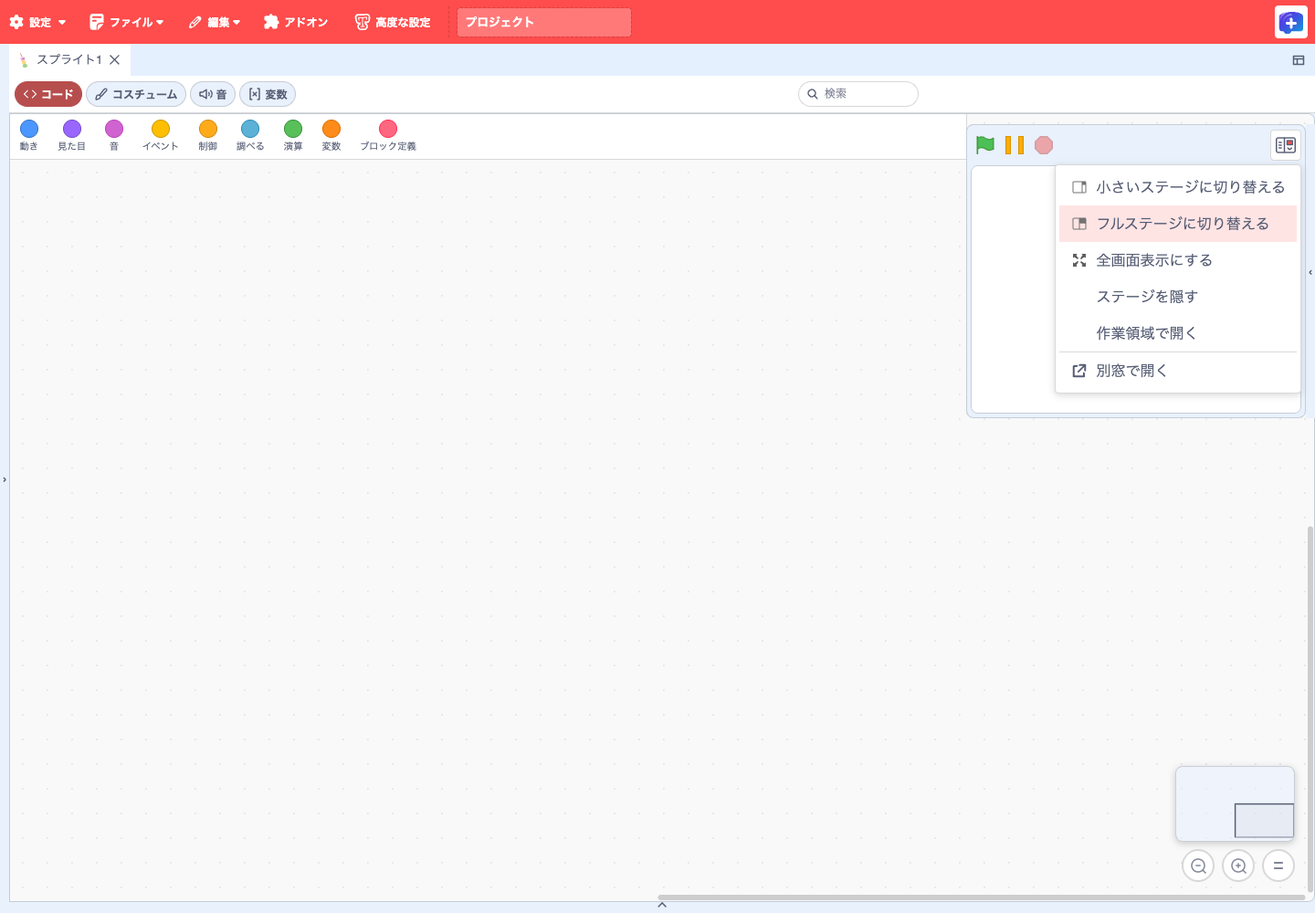
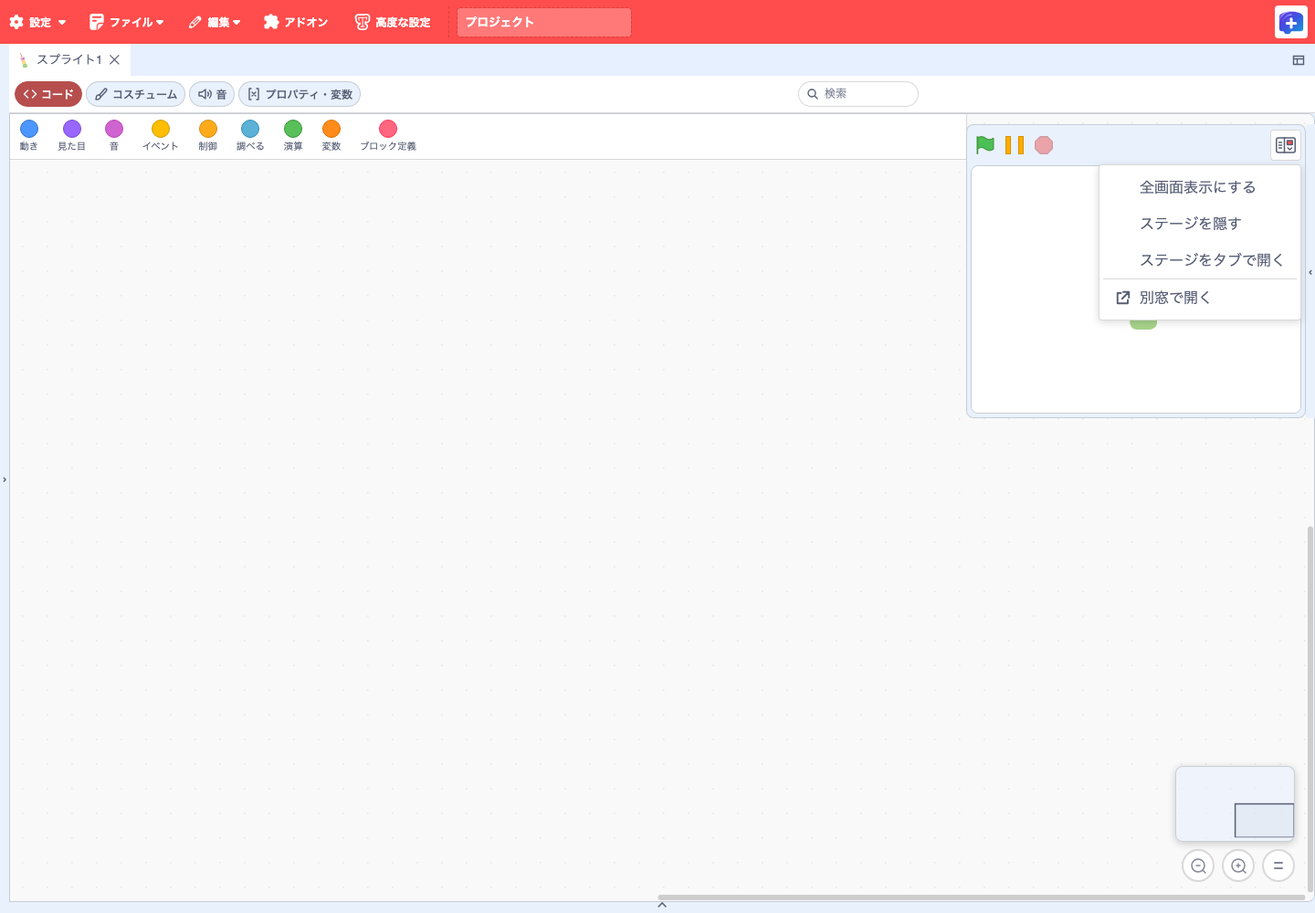
docs(features): document SB3 compatibility and current stage controls

Changed region(s): [[0.7812, 0.186, 1.0, 0.434], [0.1875, 0.093, 0.2812, 0.124]]

diff --git a/docs/features/index.html b/docs/features/index.html
@@ -13,6 +13,8 @@
 <h1>TurboWarp Plusで作品をつくる</h1>
 <p class="lead">作品を開いたら、スプライト、コード、ステージを作業しやすい位置に並べます。編集した内容を確かめ、使い回したい素材を取り込み、SB3や単一HTMLにまとめます。</p>
 <p><a href="../editor.html?lang=ja">日本語でエディターを開く</a> · <a href="images/capture.json">掲載画面の撮影条件</a></p>
+<p>Scratch 3と標準TurboWarpで保存したSB3は、どちらもPlus Editorで開けます。Plus固有の機能には、対応する拡張や専用データなどが必要なものがあります。</p>
+<p><a href="sb3-compatibility.md">Scratch・TurboWarpのSB3互換性と機能一覧（Markdown）</a></p>
 <p class="guide-note">画面画像を選ぶと元の大きさで開けます。「概念図」は、画面や操作の関係を簡略化して示しています。</p>
 <div id="comparison">
 <h2>標準のTurboWarpに加わる機能</h2>
@@ -171,8 +173,8 @@
 
 <h2>7. ステージを展開して作品を動かす</h2>
 
-<p>右端の「ステージを展開」からステージを表示します。緑旗・一時停止・停止で動作を確認し、「ステージの表示」で小さい表示、フルステージ、全画面、非表示を切り替えます。表示を隠しても作品は実行を続けます。</p>
-<figure><a href="images/stage-menu.png"><img src="images/stage-menu.png" width="1440" height="1000" alt="右端から開いたステージと、サイズ・全画面・作業領域・別窓を選べる表示メニュー。" loading="lazy"></a><figcaption>「ステージの表示」に、サイズの変更と表示先の切り替えがまとまっています。</figcaption></figure>
+<p>右端の「ステージを展開」からステージを表示します。緑旗・一時停止・停止で動作を確認し、「ステージの表示」から全画面表示や非表示を選べます。表示を隠しても作品は実行を続けます。</p>
+<figure><a href="images/stage-menu.png"><img src="images/stage-menu.png" width="1440" height="1000" alt="右端から開いたステージと、全画面表示、非表示、タブ、別窓を選べる表示メニュー。" loading="lazy"></a><figcaption>右端のステージで「ステージの表示」を開いたところ。</figcaption></figure>
 <p><a href="https://github.com/kubohiroya/turbowarp-plus-editor/pull/257">右端のステージと別窓</a></p>
 
 </section>
@@ -227,9 +229,10 @@
 
 <h2>12. コスチュームや音の選択を保って編集する</h2>
 
-<p>「編集パネルのレイアウト」で「パネルを横に分割」を選び、同じスプライトの「コスチューム」と「音」を左右に開きます。音を選ぶと波形が表示され、その下の再生ボタンで試聴できます。音が入っていないスプライトには「音」タブで追加します。ペインごとに選んだ素材が保持されるので、元のペインをクリックするか、フォーカスを当ててEnterを押せば、その素材の編集を再開できます。</p>
+<p>「編集パネルのレイアウト」から「パネルを横に分割」を選び、同じスプライトの「コスチューム」と「音」を左右に開きます。「音」で素材を選ぶと波形が表示され、その下の再生ボタンで試聴できます。音の一覧が空の場合は「音」タブから追加します。</p>
+<p>別のペインに移っても、開いていたタブと選んだ素材はペインごとに保持されます。編集を再開するには、元のペインをクリックするか、ペインにフォーカスを当ててEnterを押します。</p>
 <figure><a href="images/local-media-panes.png"><img src="images/local-media-panes.png" width="1440" height="575" alt="ローカル統合版のPlus配置。左ペインにコスチュームの全体像、右ペインに音の波形と再生ボタンが表示され、両方の検索欄が各ペインの右端にある。" loading="lazy"></a><figcaption>ローカル統合版。左にコスチュームのプレビュー、右に確認用の音の波形と再生ボタン。</figcaption></figure>
-<p><span class="badge planned">開発中</span> 図のローカル統合版では、編集していない側のコスチュームプレビューの高さに上限を設け、検索欄を各ペインの右端に揃えています。公開版でも素材の選択保持と音の再生を利用できます。公開版ではペインが縦長だとコスチュームのプレビューが大きくなり、音のペインでは検索欄の右に別の操作ボタンが表示されます。</p>
+<p><span class="badge planned">開発中</span> ローカル統合版では、操作していないペインのコスチュームプレビューが大きくなりすぎないよう、高さに上限があります。「検索」は各ペインの右端に揃います。公開版でも素材の選択は保持され、音を再生できます。縦長のペインではプレビューが大きく表示され、「音」のペインでは検索欄の右に操作ボタンが並びます。</p>
 <p><a href="https://github.com/kubohiroya/turbowarp-plus-editor/pull/253">素材の選択と編集状態</a></p>
 
 </section>
@@ -238,9 +241,9 @@
 
 <h2>13. 変数を見ながらコードを編集する</h2>
 
-<p>ペインを横に分割し、一方で変数、もう一方でコードを開くと、処理を見ながら値を調整できます。値の欄に入力してEnterを押すと確定し、同じ変数を表示している別のペインにも反映されます。</p>
+<p>ペインを横に分割し、片方に変数、もう片方にコードを表示します。値の欄を編集し、Enterで確定すると、同じ変数を表示しているほかのペインにも新しい値が反映されます。</p>
 <figure><a href="images/local-variable-pane.png"><img src="images/local-variable-pane.png" width="1440" height="405" alt="ローカル統合版の左ペインに、すべてのスプライト用のスコアと、このスプライトのみの速さが別の見出しで表示されている。速さの値は8。右ペインに速さを使って移動するコードがある。" loading="lazy"></a><figcaption>ローカル統合版。「変数」タブで「速さ」を8に確定したところ。隣のコードでは「速さ」を移動量に使っています。</figcaption></figure>
-<p><span class="badge planned">開発中</span> 図のローカル統合版では「変数」タブを開きます。「すべてのスプライト用」と「このスプライトのみ」に分かれ、名前列を狭くして値の欄を広く取っています。公開版では「プロパティ・変数」タブを開き、各変数に付く「作品」「スプライト」の表示で範囲を確認します。</p>
+<p><span class="badge planned">開発中</span> ローカル統合版の「変数」タブでは、「すべてのスプライト用」と「このスプライトのみ」の見出しで変数がまとまっています。値の列は名前の列より広く、入力欄からフォーカスを外しても確定できます。確定前にEscを押すと入力を取り消せます。公開版では「プロパティ・変数」タブを開き、変数名に添えられた「作品」または「スプライト」の表示で範囲を確認します。</p>
 <p><a href="https://github.com/kubohiroya/turbowarp-plus-editor/pull/253">変数タブ</a></p>
 
 </section>
@@ -249,11 +252,12 @@
 
 <h2>14. ステージを作業領域や別窓に移す</h2>
 
-<p>右端からステージを展開し、「ステージの表示」→「作業領域で開く」で、コードの隣にステージタブを開けます。ステージ上の「ステージの表示」から「小さいステージに切り替える」「別窓で開く」「作業領域から戻す」を選べます。元の位置へ戻すには、ステージタブを閉じる方法もあります。</p>
+<p>右端からステージを展開し、「ステージの表示」→「ステージをタブで開く」を選ぶと、コードの隣にステージタブを開けます。同じメニューから「別窓で開く」も選べます。右端に戻すには「作業領域から戻す」を選ぶか、ステージタブを閉じます。</p>
 <div class="flow" role="img" aria-label="右端のステージを作業領域のタブまたはブラウザー別窓に移し、右端に戻す。"><div>右端のステージ</div><span>↔</span><div>作業領域のタブ<br><small>またはブラウザーの別窓</small></div></div>
-<figure><a href="images/local-stage-workspace.png"><img src="images/local-stage-workspace.png" width="1440" height="1000" alt="ローカル統合版で左にコード、右にペインの幅に合わせたステージを表示。ステージの表示メニューに小さいステージへの切り替え、作業領域から戻す、別窓で開くが並ぶ。" loading="lazy"></a><figcaption>ローカル統合版。作業領域に移したステージで「ステージの表示」を開いたところ。</figcaption></figure>
-<p><span class="badge planned">開発中</span> ローカル統合版は縦横比を保ったまま、ペインに収まる大きさまでステージを広げます。小さいステージも選べます。ステージ側の表示操作は「ステージの表示」にまとまっています。公開版では広いペインでも通常表示の幅が480pxにとどまり、ステージのタブ列にも「編集パネルのレイアウト」が表示されます。</p>
-<p><a href="https://github.com/kubohiroya/turbowarp-plus-editor/pull/258">作業領域へのステージ移動</a> · <a href="https://github.com/kubohiroya/turbowarp-plus-editor/pull/257">別窓とドック復帰</a></p>
+<figure><a href="images/stage-workspace-current.png"><img src="images/stage-workspace-current.png" width="1440" height="1000" alt="左にコード、右にステージタブを表示。ステージの表示メニューから右端に戻す操作や別窓へ移す操作を選べる。" loading="lazy"></a><figcaption>公開Web版。作業領域に移したステージで「ステージの表示」を開いたところ。</figcaption></figure>
+<p><span class="badge planned">開発中</span> ペインの広さに合わせてステージを拡大・縮小する動作は、ローカル統合版で確認しています。掲載した公開版の通常表示ではステージの幅は480pxです。</p>
+<figure><a href="images/local-stage-workspace.png"><img src="images/local-stage-workspace.png" width="1440" height="1000" alt="ローカル統合版で左にコード、右にペインの幅に合わせたステージを表示。" loading="lazy"></a><figcaption>ローカル統合版の比較画像。幅715pxのペインにステージを幅703pxで表示。メニューは撮影時点の開発版です。</figcaption></figure>
+<p><a href="https://github.com/kubohiroya/turbowarp-plus-editor/pull/277">ステージの表示メニュー</a> · <a href="https://github.com/kubohiroya/turbowarp-plus-editor/pull/257">別窓とドック復帰</a></p>
 
 </section>
 
@@ -421,10 +425,10 @@
 
 <h2>27. スクリプトとステージを別作品へ転送する</h2>
 
-<p>移したいスクリプトのブロックを右クリックし、「スクリプトを書き出し」か「コピー」を選びます。転送先のコード領域の空白を右クリックし、「スクリプトを読み込み」か「貼り付け」を選びます。転送は<a href="../editor.html?lang=ja">通常の起動</a>で利用でき、Ctrl/Cmd+C・Vも使えます。</p>
+<p>移したいスクリプトのブロックを右クリックします。「スクリプトを書き出し」と「コピー」は、右クリックしたブロックを含む、つながった一組のブロック全体に適用されます。転送先ではコード領域の空白を右クリックし、ファイルなら「スクリプトを読み込み」、コピーした内容なら「貼り付け」を選びます。コピーと貼り付けにはCtrl／Cmd+C・Vも使えます。</p>
 <figure class="guide-detail"><a href="images/local-script-transfer.png"><img src="images/local-script-transfer.png" width="690" height="559" alt="ローカル統合版のPlus配置で、ブロックを右クリックしたところ。スクリプトを書き出し、コピー、複製、削除などの項目の左に操作アイコンが並ぶ。" loading="lazy"></a><figcaption>ローカル統合版のブロックの右クリックメニュー。書き出しは下向き矢印、削除はゴミ箱のアイコンで見分けられます。</figcaption></figure>
-<p><span class="badge planned">開発中</span> ローカル統合版では通常の起動でアイコンが表示されます。公開版で同じアイコンを表示するには、EditorのURLに <code>twPlusContextMenuIcons=1</code> を指定します。これはアイコン表示の設定です。</p>
-<ul><li><strong>.blocks3</strong>：スクリプトと必要なブロック定義・変数・リスト・メッセージ・拡張参照を移します。OSクリップボードへの許可がなくても、同じサイトのウィンドウ間でコピー・貼り付けできます。</li><li><strong>.stage3</strong>：Plus配置では背景タイル、Scratch配置ではステージの右クリックから書き出せます。Scratch配置では背景の「選ぶ」メニューから「ステージを読み込み（追加）」を選びます。背景・音・スクリプトを既存のステージへ追加します。</li><li>同名の変数等はスコープ・種類が合う既存データを使い、読み込み先の値を保持します。名前が競合する定義やアセットは必要に応じて改名します。式で生成する背景・音の名前や番号までは自動変換しません。</li><li>転送元の拡張の承認は引き継ぎません。別サイトへのクリップボード転送には対応ブラウザーと読取許可が必要です。同じサイト内の最後のコピーはlocalStorageにも残ります。</li></ul>
+<p><span class="badge planned">開発中</span> ローカル統合版は通常の起動でアイコンを表示します。公開版でアイコンを表示するには、URLに <code>twPlusContextMenuIcons=1</code> を指定します。転送操作はどちらの版でも<a href="../editor.html?lang=ja">通常の起動</a>で使えます。</p>
+<ul><li><strong>.blocks3</strong> にはスクリプトと、それが使うブロック定義・変数・リスト・メッセージ・拡張の情報が含まれます。同じオリジンで開いたウィンドウ間では、OSのクリップボードへのアクセスを許可していなくてもコピーと貼り付けができます。別のオリジン間では、対応ブラウザーとクリップボードの読み取り許可が必要です。</li><li><strong>.stage3</strong> は、Plus配置なら背景タイル、Scratch配置ならステージを右クリックして書き出します。Scratch配置で取り込むには、背景の「選ぶ」メニューで「ステージを読み込み（追加）」を選びます。背景・音・スクリプトが現在のステージに追加されます。</li><li>変数やリストの名前と範囲・種類が一致する場合は、読み込み先の項目とその値を使います。名前が衝突するブロック定義や素材は必要に応じて改名します。計算で決まる背景・音の名前や番号は自動変換の対象外です。</li><li>拡張を実行できるかどうかは、転送先の設定や承認で決まります。</li></ul>
 <p><a href="https://github.com/kubohiroya/turbowarp-plus-editor/blob/main/docs/script-stage-transfer.md">転送機能の仕様</a></p>
 
 </section>
@@ -433,7 +437,8 @@
 
 <h2>28. バンドル素材を背景・コスチューム・音に追加する</h2>
 
-<p>対応するバンドル素材を含む作品で、「ファイル」→「バンドル素材を作品に追加…」を開きます。素材、追加する種類、追加先を選び、「作品に追加」を押します。たとえばバンドル内の画像をステージの背景として再利用できます。元の素材もバンドルに保持されます。</p>
+<p>バンドル素材は、紙芝居などの拡張が使うために、通常の背景・コスチューム・音とは別枠で作品に保存した画像・音声ファイルです。たとえば紙芝居の場面用画像を、通常のステージ背景として追加できます。元の画像は紙芝居にも残ります。</p>
+<p>素材が入っている作品で、「ファイル」→「バンドル素材を作品に追加…」を開きます。素材、追加する種類、追加先を選び、「作品に追加」を押します。</p>
 <div class="table-scroll" role="region" aria-label="素材の種類に応じた追加先" tabindex="0">
 <table><caption>素材の種類に応じた追加先</caption><thead><tr><th scope="col">素材</th><th scope="col">追加する種類</th><th scope="col">追加先</th></tr></thead><tbody>
 <tr><th scope="row">画像</th><td>コスチューム</td><td>選んだスプライト</td></tr>
@@ -499,7 +504,7 @@
 
 <h2>32. ソースデータと素材をどの形式で保存するか選ぶ</h2>
 
-<p>「ファイル」→「作品データの形式…」で、対応するソースデータやアセットを項目ごとに設定できます。HTTPSから毎回取得、HTTPSから取得してキャッシュ可、SB3内のファイル、作品JSON内のデータから選びます。外部URLの内容は現在のデータと一致する必要があります。</p>
+<p>「ファイル」→「作品データの形式…」では、Scratch 3や標準TurboWarpのSB3に入っている背景・コスチューム・音の格納方式を選べます。対応する拡張が提供するYAMLなどのソースデータも、作品に含まれていれば設定できます。外部URLの内容は現在のデータと一致する必要があります。</p>
 <div class="table-scroll" role="region" aria-label="ソースデータと素材の保存方法" tabindex="0">
 <table><caption>ソースデータと素材の保存方法</caption><thead><tr><th scope="col">画面で選ぶ形式</th><th scope="col">使い分け</th></tr></thead><tbody>
 <tr><th scope="row">HTTPS から毎回取得</th><td>開くたびに配信元から取得する</td></tr>
@@ -515,7 +520,8 @@
 
 <h2>33. 作品を単一HTMLにまとめて配布する</h2>
 
-<p>標準TurboWarpにもPackagerがあります。ここでの追加点は、Plus形式の拡張とその実行条件を引き継ぐ出力です。Plus作品で「ファイル」→「プロジェクトをパッケージ化する」を選ぶと、ローカルの出力画面へ進みます。</p>
+<p>通常のScratch 3・TurboWarpのSB3は、「ファイル」→「プロジェクトをパッケージ化する」から<a href="https://packager.turbowarp.org/">標準のTurboWarp Packager</a>を開き、単一HTMLにできます。Plus形式の拡張の保存情報を持つ作品では、同じ操作でPlus専用の出力画面が開きます。</p>
+<p>Plus専用の出力では、次の手順で拡張コードと実行条件を引き継ぎます。</p>
 <ol><li>作品に外部API・モデルなどの依存がないか確認します。</li><li>確認してHTMLを生成します。Remoteの拡張コードも取得・検証して同梱し、サンドボックスの指定を保持します。</li><li>生成したHTMLを開いて動作を確かめます。カタログ掲載拡張は生成時に埋め込んだハッシュと照合し、カタログ外の拡張はHTMLを開くたびに確認します。</li></ol>
 <div class="flow" role="img" aria-label="Plus作品から拡張コードを取得して検証し、コードと作品を単一HTMLに同梱。受取人が開く際にも実行条件を確認する。"><div>Plus作品</div><span>→</span><div>コード取得・検証</div><span>→</span><div>単一HTMLへ同梱</div><span>→</span><div>開く人が実行<br><small>必要な拡張を確認</small></div></div>
 <p>外部依存がない作品はオフラインで動作します。外部API・画像・モデル等の資産を自動的に収集する機能ではありません。詳細は<a href="https://github.com/kubohiroya/turbowarp-plus-editor/blob/main/docs/extension-loader-integration.md">ローダーとHTML出力の仕様</a>を参照してください。</p>

diff --git a/docs/features/sb3-compatibility.md b/docs/features/sb3-compatibility.md
@@ -1,0 +1,116 @@
+# TurboWarp-Plus-EditorのSB3互換性と機能一覧
+
+**Scratch 3で保存した `.sb3` も、標準TurboWarpで保存した `.sb3` も、TurboWarp-Plus-Editorで開けます。** どちらも「ファイル」→「コンピューターから読み込む」を使います。Scratch標準ブロックや、Editorが備えるTurboWarp固有ブロックを編集・実行できます。カスタム拡張を含む作品では、対応する拡張を取得できることと、必要な実行許可を得られることが条件です。 [TurboWarpの読み込み手順](https://docs.turbowarp.org/scratch-accounts) · [TurboWarp固有ブロック](https://docs.turbowarp.org/blocks) · [カスタム拡張](https://docs.turbowarp.org/development/extensions/introduction)
+
+判定は、**通常のScratch 3または標準TurboWarpのSB3を、Plus EditorのWeb版で通常どおり開いた直後**を基準にします。作品にはPlus対応拡張や専用データが含まれず、エディターは既定設定で起動するものとします。「使える」は通常の作品データで利用できる機能、「使えない」はその状態では利用できない機能、「対象外」はエディターの外で行う操作です。追加の拡張・データ・起動設定や、開発版で使える範囲は右端に示します。
+
+章番号は2026年11月6日付のローカル改訂版「TurboWarp Plusで作品をつくる」（`cce59fb`）に対応します。公開Web版と操作が異なる箇所、試験機能、開発中の機能は表に記載しています。 [機能ガイドの改訂 Issue #181](https://github.com/kubohiroya/turbowarp-plus-editor/issues/181)
+
+## 作品を用意する
+
+| 機能紹介の章 | Scratch 3のSB3 | TurboWarpのSB3 | 利用条件と範囲 |
+| --- | --- | --- | --- |
+| 1. sb3-toolchainで作品と拡張を管理する | 対象外 | 対象外 | 両形式を、Node.jsのコマンドラインツール `sb3-toolchain` で展開・検証し、再生成できる。機能ごとの条件は下の第1章の内訳を参照。 |
+| 2. 作品を新しく作る・SB3を開く | 使える | 使える | 「ファイル」→「コンピューターから読み込む」。カスタム拡張付きは取得・実行条件を満たす必要がある。 |
+| 3. 作品に拡張を追加し、実行条件を確認する | 使える | 使える | 作品を開いた状態で、Plusカタログから拡張を追加できる。読み込み時の実行確認は対象のカスタム拡張を含む作品で表示される。必要な許可を得られない場合は読み込みが中断されることがある。 |
+| 4. 作品が開けないときに診断を読む | 使える | 使える | 作品の読み込み結果を確認できる。拡張の取得元・実行許可・検証の詳細は、ローダーが記録した場合に表示される。 |
+
+[sb3-toolchain](https://github.com/kubohiroya/sb3-toolchain/) · [作品情報と診断](https://github.com/kubohiroya/turbowarp-plus-editor/blob/main/docs/project-tools.md)
+
+### 第1章の内訳
+
+`sb3-toolchain` はNode.jsのコマンドラインツールです。手元のSB3を展開して管理し、配布用のSB3を生成するときに使います。
+
+| sb3-toolchainの機能 | Scratch 3のSB3 | TurboWarpのSB3 | 利用条件と範囲 |
+| --- | --- | --- | --- |
+| SB3の展開 | できる | できる | `import` で作品データと素材を展開。対応する埋め込み拡張も個別のファイルに取り出せる。 |
+| Gitで差分を確認 | できる | できる | 展開した `project.source.json` や素材、拡張コードをGitで管理する。 |
+| 展開ソースの検証 | できる | できる | `check` で素材参照やMD5などを確認。埋め込み拡張があれば対応関係も検証する。 |
+| SB3の再生成 | できる | できる | `build` で再生成する。同じ展開ソースと設定から同じバイト列のSB3を生成できる。 |
+| 素材の追加・ブロック配置の整理 | できる | できる | ビルド設定でスプライト・背景・コスチューム・音を追加できる。スクリプトの配置整理は任意。 |
+| 埋め込み拡張の取得元・版・ハッシュの管理 | 対象なし | 対応する埋め込み拡張があれば可 | GitHubのコミットやインストール済みnpmパッケージの版を固定し、SHA-256を照合できる。 |
+| 拡張更新時のAPI互換性の確認 | 対象なし | 対応マニフェストがあれば可 | 更新前後のAPIマニフェストを比較し、ブロックや引数などの変更を検査できる。 |
+| 拡張のバンドルと解除 | 対象なし | 対応する埋め込み拡張があれば可 | 複数の拡張を生成SB3で一つの実行許可単位にまとめられる。展開ソースでは個別に保持し、生成SB3単体から解除するには復元カプセルが必要。 |
+
+実行許可は、生成したSB3を開くときにPlus Editorが扱います。カタログで信頼条件を満たす拡張は個別承認を省略し、確認が必要なバンドルでは全体を一つの単位として表示します。第3章を参照してください。
+
+[sb3-toolchainの使い方](https://github.com/kubohiroya/sb3-toolchain/blob/main/README.ja.md) · [拡張APIの互換性検査](https://github.com/kubohiroya/sb3-toolchain/blob/main/docs/ja/extension-api-compatibility.md) · [バンドルと解除の仕様](https://github.com/kubohiroya/sb3-toolchain/blob/main/docs/ja/extension-bundles.md)
+
+## 画面を整える
+
+| 機能紹介の章 | Scratch 3のSB3 | TurboWarpのSB3 | 利用条件と範囲 |
+| --- | --- | --- | --- |
+| 5. Plus標準配置とScratch配置を使い分ける | 使える | 使える | 公開Web版はPlus配置が既定。`twPlusStandardLayout=0` でScratch配置に切り替えられる。 |
+| 6. 左端からスプライトを探す | 使える | 使える | Plus配置。名前で検索し、一覧の固定や幅の調整もできる。 |
+| 7. ステージを展開して作品を動かす | 使える | 使える | Plus配置の右端から展開。緑旗・一時停止・停止で実行を操作し、「ステージの表示」で全画面・非表示を切り替えられる。 |
+| 8. 境界を動かして作業領域を調整する | 使える | 使える | Plus配置とScratch配置で調整できる境界が異なる。比率はブラウザーに保存。 |
+| 9. スプライトごとのタブで作業を切り替える | 使える | 使える | Plus配置。スプライト別のタブからコードや素材へ切り替える。 |
+| 10. タブを左右・上下に分割して並べる | 使える | 使える | Plus配置のDockview。タブを左右・上下に分割できる。 |
+
+## 複数の画面で作業する
+
+| 機能紹介の章 | Scratch 3のSB3 | TurboWarpのSB3 | 利用条件と範囲 |
+| --- | --- | --- | --- |
+| 11. 複数のコード画面を並べて見比べる | 使える | 使える | Webではペインごとに位置・ズームを保持し、同じ作品を編集。OS別窓でのコード編集はmacOS Desktop開発版で検証。 |
+| 12. コスチュームや音の選択を保って編集する | 使える | 使える | 作品にあるコスチュームや音を選択し、ペインごとに選択を保持できる。音は再生できる。コスチューム表示の高さ制限と検索欄の位置調整はローカル統合版。 |
+| 13. 変数を見ながらコードを編集する | 使える | 使える | 作品にある変数の値を表示・編集できる。公開版は「プロパティ・変数」タブを使う。スコープ別の見出しでまとめる「変数」タブはローカル統合版。 |
+| 14. ステージを作業領域や別窓に移す | 使える | 使える | 「ステージの表示」から「ステージをタブで開く」または「別窓で開く」を選べる。ペインの広さに合わせる表示はローカル統合版。 |
+| 15. パネルの切り離しとドック復帰を試す | 使えない | 使えない | スプライト設定・一覧の切り離しはWeb版の試験設定で有効にできる。ステージ・設定・一覧をOS別窓に出して戻す操作はmacOS Desktop開発版の検証範囲。 |
+| 16. 次に開くときに作業配置を復元する | 使える | 使える | 同じブラウザープロファイルに保存済みのタブ順・分割・選択状態があれば復元できる。作業配置はブラウザー側、作品はSB3に保存される。 |
+
+[ペインと素材・変数の編集](https://github.com/kubohiroya/turbowarp-plus-editor/pull/253) · [ステージの作業領域への移動](https://github.com/kubohiroya/turbowarp-plus-editor/pull/258) · [配置の復元](https://github.com/kubohiroya/turbowarp-plus-editor/pull/264)
+
+## ブロックや文書を編集する
+
+| 機能紹介の章 | Scratch 3のSB3 | TurboWarpのSB3 | 利用条件と範囲 |
+| --- | --- | --- | --- |
+| 17. 横型パレットからブロックを置く | 使える | 使える | Plus配置。標準ブロックと、読み込めた拡張のブロックを配置できる。 |
+| 18. カテゴリの小窓を見やすい大きさにする | 使える | 使える | 横型パレットの小窓をカテゴリ別にリサイズできる。 |
+| 19. カテゴリの順序を変え、ブロックを整理する | 使える | 使える | カテゴリ順は再読み込みで初期化。公開版の右クリックメニューのアイコンは `twPlusContextMenuIcons=1` で表示。既定表示はローカル統合版。 |
+| 20. ミニマップとズームで長いコードを移動する | 使える | 使える | Plus配置。ミニマップで移動し、ズームを調整できる。 |
+| 21. ブロックの値をフォームで編集する | 使えない | 使えない | フォーム対応の拡張を読み込み、その拡張がフォームを登録したブロックで使える。標準ブロックは従来の入力欄で編集する。 |
+| 22. 外部YAMLと作品内の文書・ブロックを使い分ける | 使えない | 使えない | 文書を登録する対応拡張と対象文書を用意すると、提供元が対応する原文・汎用YAMLブロック・専用ブロックを変換できる。外部参照には取得可能なHTTPS、VSCode編集にはローカルのコンパニオンが必要。 |
+| 23. 作品内YAMLをタブに開いてコードと並べる | 使えない | 使えない | 文書を登録する対応拡張と対象文書を用意し、データソースブロックからDockviewのタブに開くと、コードと並べられる。 |
+| 24. 素材を見たり再生したりして選ぶ | 使えない | 使えない | 紙芝居拡張の開発版にある、紙芝居用の画像・音声・動画のプレビュー。通常のコスチューム・音の編集は第12章。 |
+| 25. 場面や動作をプレビューしてから反映する | 使えない | 使えない | 対応拡張を読み込むと、その拡張が登録するフォーム連動のプレビュー、ステージ操作ボタン、操作ドックを利用できる。 |
+
+[フォーム編集](https://github.com/kubohiroya/turbowarp-plus-editor/blob/main/docs/block-editor.md) · [文書編集](https://github.com/kubohiroya/turbowarp-plus-editor/blob/main/docs/document-window.md) · [素材プレビューの開発](https://github.com/kubohiroya/turbowarp-kamishibai-app/issues/1132)
+
+## 素材とスクリプトを再利用する
+
+| 機能紹介の章 | Scratch 3のSB3 | TurboWarpのSB3 | 利用条件と範囲 |
+| --- | --- | --- | --- |
+| 26. バックパックを下端から出して再利用する | 使える | 使える | Plus配置の下端からバックパックを開き、入っているスクリプトを再利用できる。切り離しは試験設定。macOS Desktop開発版の別窓転送は経路ごとに対応状況が異なる。 |
+| 27. スクリプトとステージを別作品へ転送する | 使える | 使える | スクリプトは `.blocks3` またはコピー・貼り付け、ステージは `.stage3` で転送できる。拡張付きのスクリプトには転送先でも対応拡張と必要な許可が要る。別サイト間の貼り付けはブラウザーの対応・権限に依存。 |
+| 28. バンドル素材を背景・コスチューム・音に追加する | 使えない | 使えない | バンドル素材は、紙芝居などの拡張が使うために作品内へ別枠で保存したファイル。その素材集を含むSB3では、場面用画像を通常のステージ背景にするなど、画像や音声を作品へコピーできる。元の素材は素材集に残る。 |
+
+[スクリプトとステージの転送](https://github.com/kubohiroya/turbowarp-plus-editor/blob/main/docs/script-stage-transfer.md) · [バンドル素材の追加](https://github.com/kubohiroya/turbowarp-plus-editor/pull/215)
+
+## 保存して配布する
+
+| 機能紹介の章 | Scratch 3のSB3 | TurboWarpのSB3 | 利用条件と範囲 |
+| --- | --- | --- | --- |
+| 29. 作品情報を記入してSB3に保存する | 使える | 使える | タイトル・概要・作者・連絡先を記入してSB3に保存。標準エディターで再保存するとPlus独自の情報が失われることがある。 |
+| 30. 作品のURIを指定してキャッシュを整理する | 使える | 使える | 作品プロパティからHTTPS URIを設定してSB3に記録できる。URIを使った拡張コードのキャッシュは、キャッシュ対象の拡張がある場合に利用する。 |
+| 31. 拡張コードの保存形式を選ぶ | 使えない | 使えない | Plus形式で管理する拡張に対して、HTTPS参照（キャッシュ不可・可）、SB3内ファイル、data URLの4形式を選べる。通常のカスタム拡張のURL読み込みは第3章。 |
+| 32. ソースデータと素材をどの形式で保存するか選ぶ | 使える | 使える | 「ファイル」→「作品データの形式…」で、通常の背景・コスチューム・音の格納方式を選べる。SB3内ファイル、作品JSON内、HTTPS参照（キャッシュ不可・可）の4形式。HTTPS先は現在の素材と同じ内容が必要。YAMLなどのソースデータは対応する提供元と対象文書がある場合に表示される。 |
+| 33. 作品を単一HTMLにまとめて配布する | 使える | 使える | 「ファイル」→「プロジェクトをパッケージ化する」を選び、標準のTurboWarp Packagerで単一HTMLを出力できる。Plus形式の拡張を含む作品の出力は下の第33章の出力経路を参照。 |
+
+[作品情報と診断](https://github.com/kubohiroya/turbowarp-plus-editor/blob/main/docs/project-tools.md) · [SB3の保存形式](https://github.com/kubohiroya/turbowarp-plus-editor/blob/main/docs/sb3-save-format.md) · [拡張ローダーとHTML出力](https://github.com/kubohiroya/turbowarp-plus-editor/blob/main/docs/extension-loader-integration.md)
+
+### 第33章の出力経路
+
+「ファイル」→「プロジェクトをパッケージ化する」を選ぶと、Plus拡張の保存情報（マニフェスト）の有無で出力画面が切り替わります。
+
+| 出力経路 | 通常のScratch 3のSB3 | 通常のTurboWarpのSB3 | Plus形式の拡張を含む作品 |
+| --- | --- | --- | --- |
+| 標準TurboWarp Packager | 単一HTMLにできる | 単一HTMLにできる | Plus EditorのメニューからはPlus専用の出力画面に進む |
+| Plus専用の出力 | 対象外 | 対象外 | 単一HTMLにできる。拡張コードを取得・検証して同梱し、サンドボックスの指定を引き継ぐ |
+
+外部APIや、拡張が実行中に取得する画像・モデルなどへの依存は、単一HTMLにしても残ります。 [標準Packagerの仕様](https://docs.turbowarp.org/packager) · [Plusの拡張ローダーとHTML出力](https://github.com/kubohiroya/turbowarp-plus-editor/blob/main/docs/extension-loader-integration.md)
+
+## 実行環境と確認範囲
+
+`.sb3` を開けても、クラウド変数の接続先、外部API、外部素材、機器やブラウザーの権限は実行環境に依存します。TurboWarpのクラウド変数サーバーはScratchとは別です。Scratchへ戻す場合は、TurboWarp専用ブロックやカスタム拡張を使った作品に互換性の制約があります。 [クラウド変数](https://docs.turbowarp.org/cloud-variables) · [TurboWarp固有ブロック](https://docs.turbowarp.org/blocks) · [カスタム拡張](https://docs.turbowarp.org/development/extensions/introduction)
+
+ローカル統合版のVMで、Scratch標準の加算ブロックを含むSB3と、TurboWarpの「最後に押されたキー」ブロックを含むSB3を確認しました。両方で読み込み、ブロックの処理、SB3への再保存を確認済みです。確認用に生成した2ファイルでのVM検証であり、カスタム拡張付きの実作品や、33項目それぞれの動作確認は含みません。
